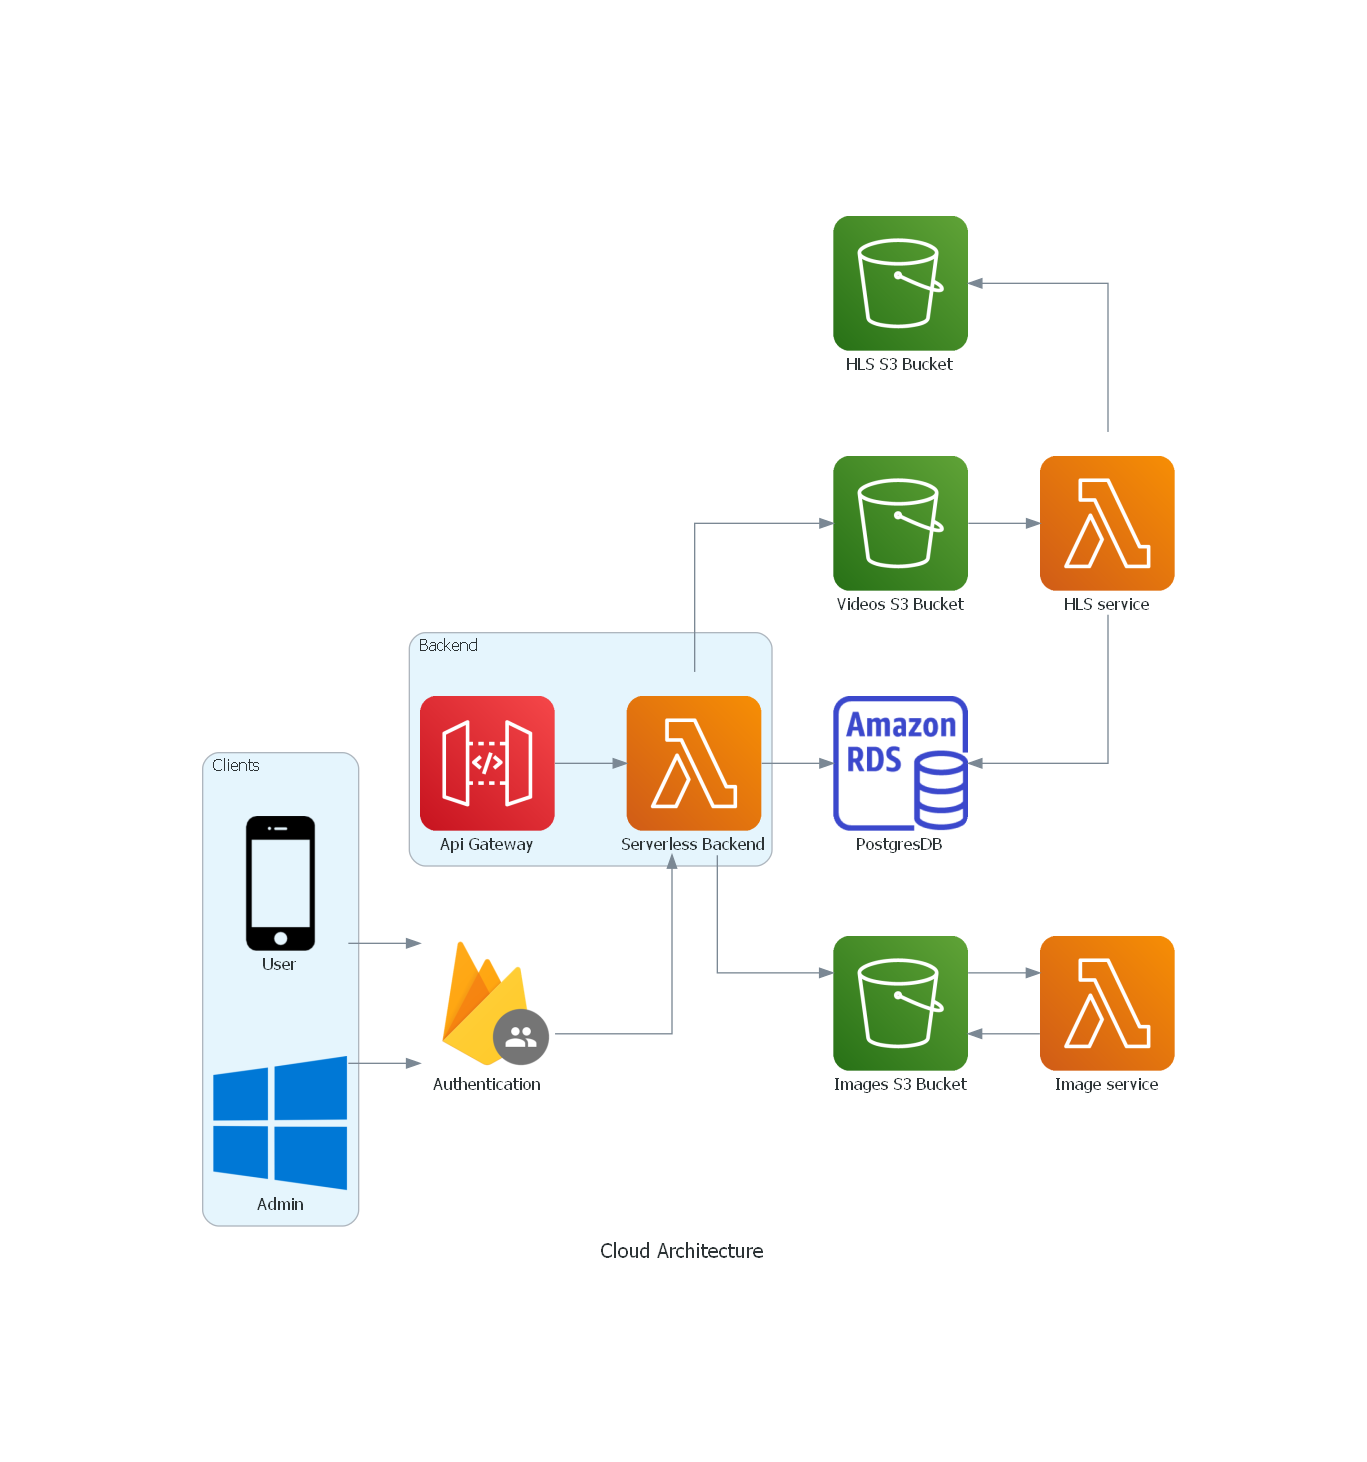
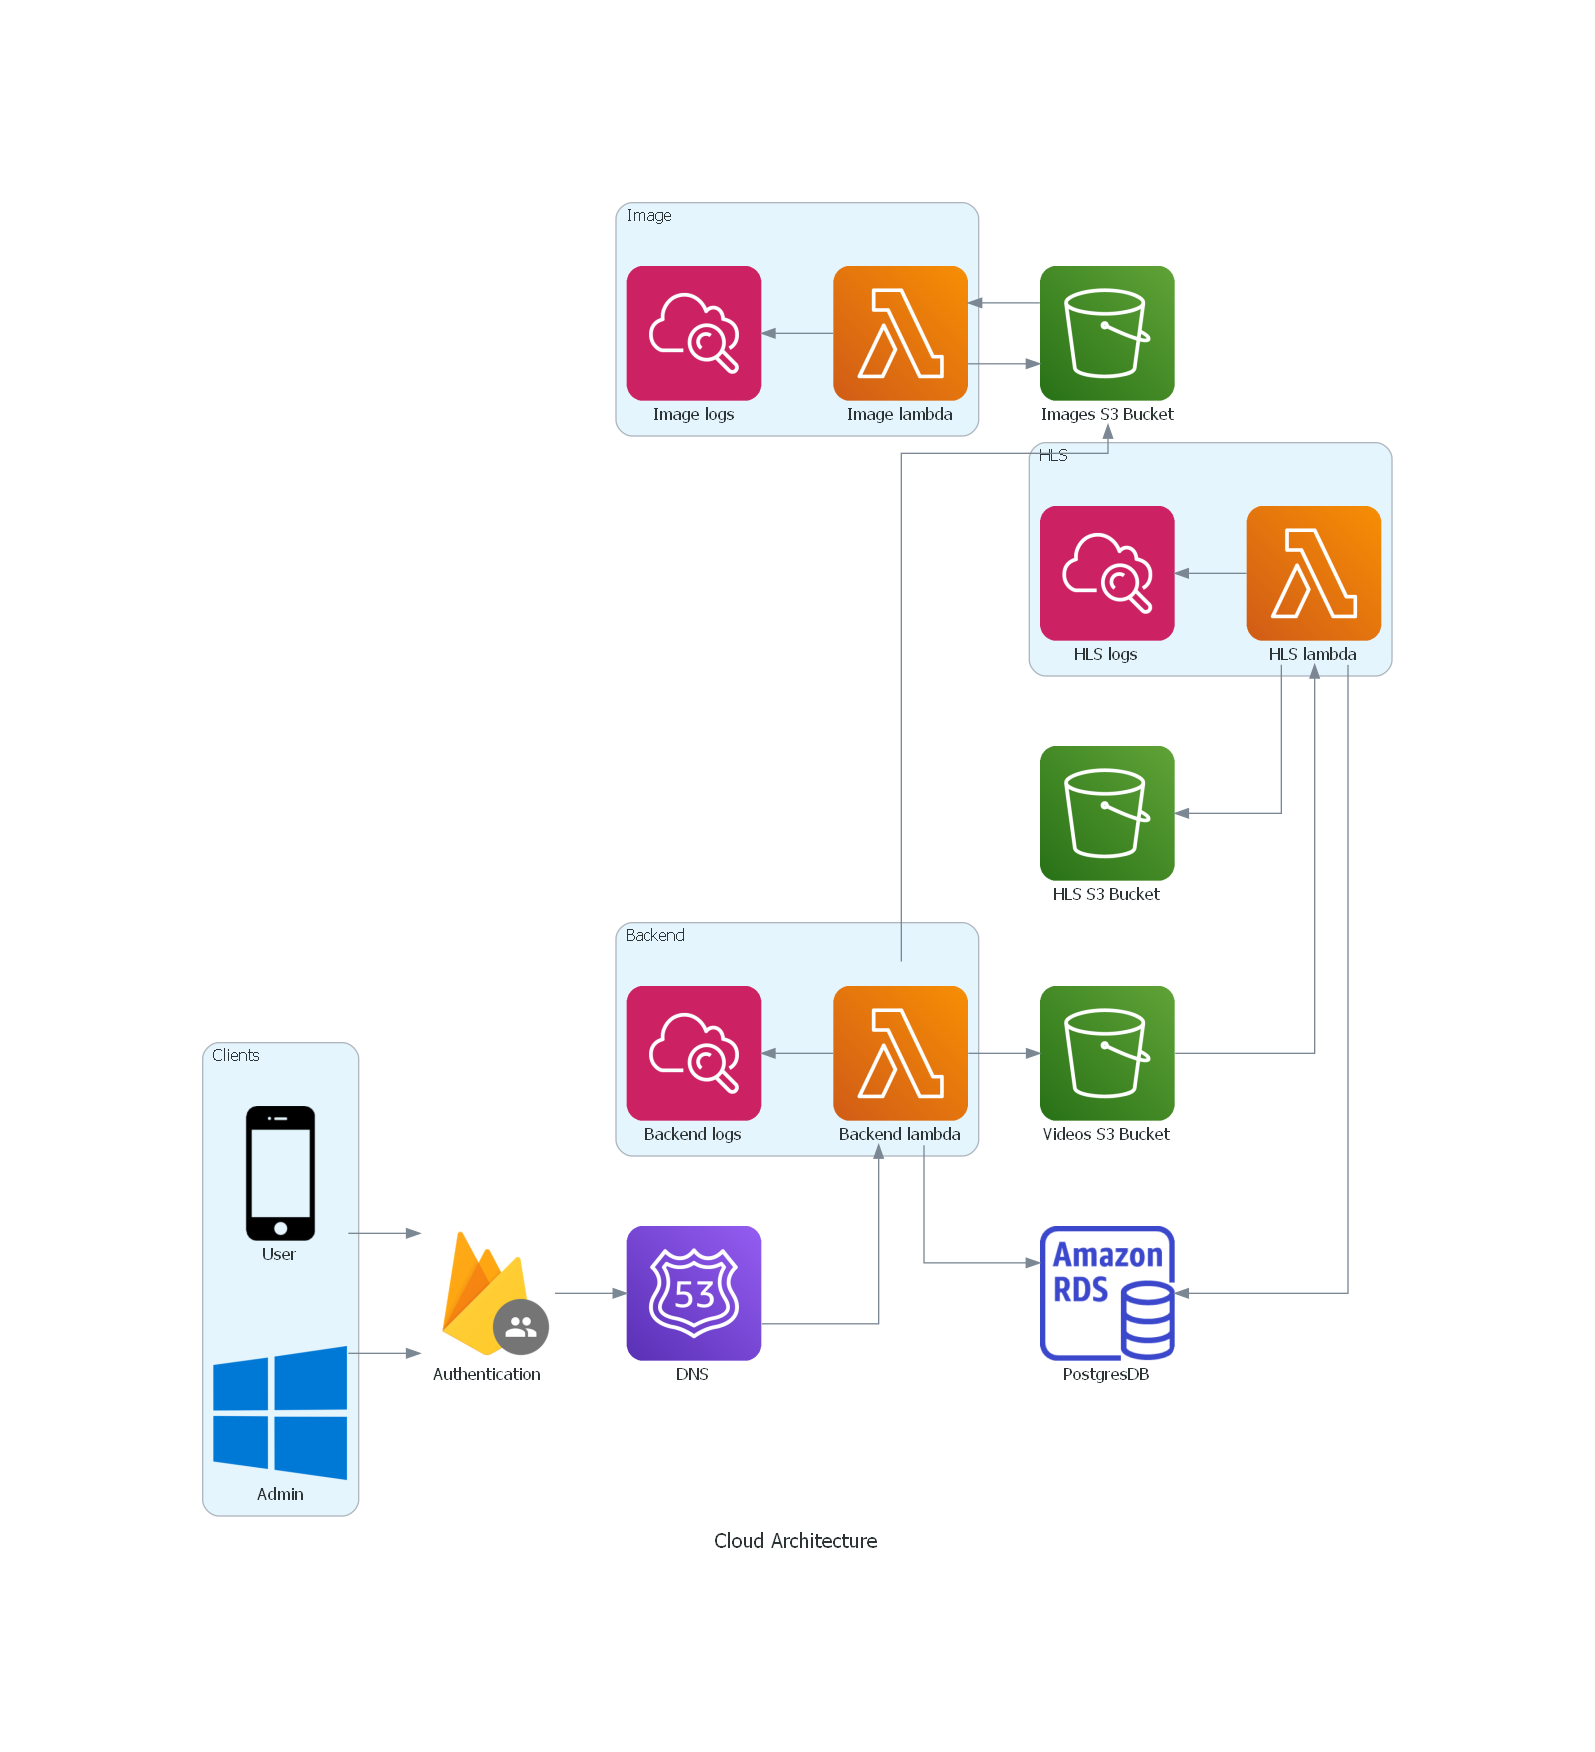
chore(docs): update cloud architecture schema

Changed region(s): [[0.1229, 0.0923, 0.891, 0.8926], [0.4609, 0.8311, 0.553, 0.8926]]

diff --git a/docs/cloud-architecture.py b/docs/cloud-architecture.py
@@ -1,26 +1,32 @@
 from diagrams import Diagram, Cluster
 from diagrams.firebase.develop import Authentication
-from diagrams.aws.mobile import APIGateway
 from diagrams.aws.compute import Lambda
 from diagrams.aws.storage import SimpleStorageServiceS3
 from diagrams.aws.database import RDSInstance
+from diagrams.aws.network import Route53
+from diagrams.aws.management import Cloudwatch
 from diagrams.generic.device import Mobile
 from diagrams.generic.os import Windows
 
 from os.path import basename, splitext
 current_file_name, _ = splitext(basename(__file__))
 
+def LambdaFunction(name: str):
+    with Cluster(name):
+        return Cloudwatch(f"{name} logs") << Lambda(f"{name} lambda")
+
 with Diagram("Cloud Architecture", filename=current_file_name, show=False):
     ImagesBucket = SimpleStorageServiceS3("Images S3 Bucket")
     VideosBucket = SimpleStorageServiceS3("Videos S3 Bucket")
     HlsBucket = SimpleStorageServiceS3("HLS S3 Bucket")
     PostgresDatabase = RDSInstance("PostgresDB")
-    HlsService = Lambda("HLS service")
-    ImageService = Lambda("Image service")
+    HlsService = LambdaFunction("HLS")
+    ImageService = LambdaFunction("Image")
     AuthenticationNode = Authentication("Authentication")
+    DnsServer = Route53("DNS")
+    Backend = LambdaFunction("Backend")
+    LogsServer = Cloudwatch
 
-    with Cluster("Backend"):
-        Backend = APIGateway("Api Gateway") >> Lambda("Serverless Backend")
     with Cluster("Clients"):
         Clients = Mobile("User"), Windows("Admin")
     
@@ -31,5 +37,5 @@ with Diagram("Cloud Architecture", filename=current_file_name, show=False):
     ImagesBucket << ImageService
     ImageService << ImagesBucket
     
-    Clients >> AuthenticationNode >> Backend >> [PostgresDatabase, VideosBucket, ImagesBucket]
+    Clients >> AuthenticationNode >> DnsServer >> Backend >> [PostgresDatabase, VideosBucket, ImagesBucket]
 
